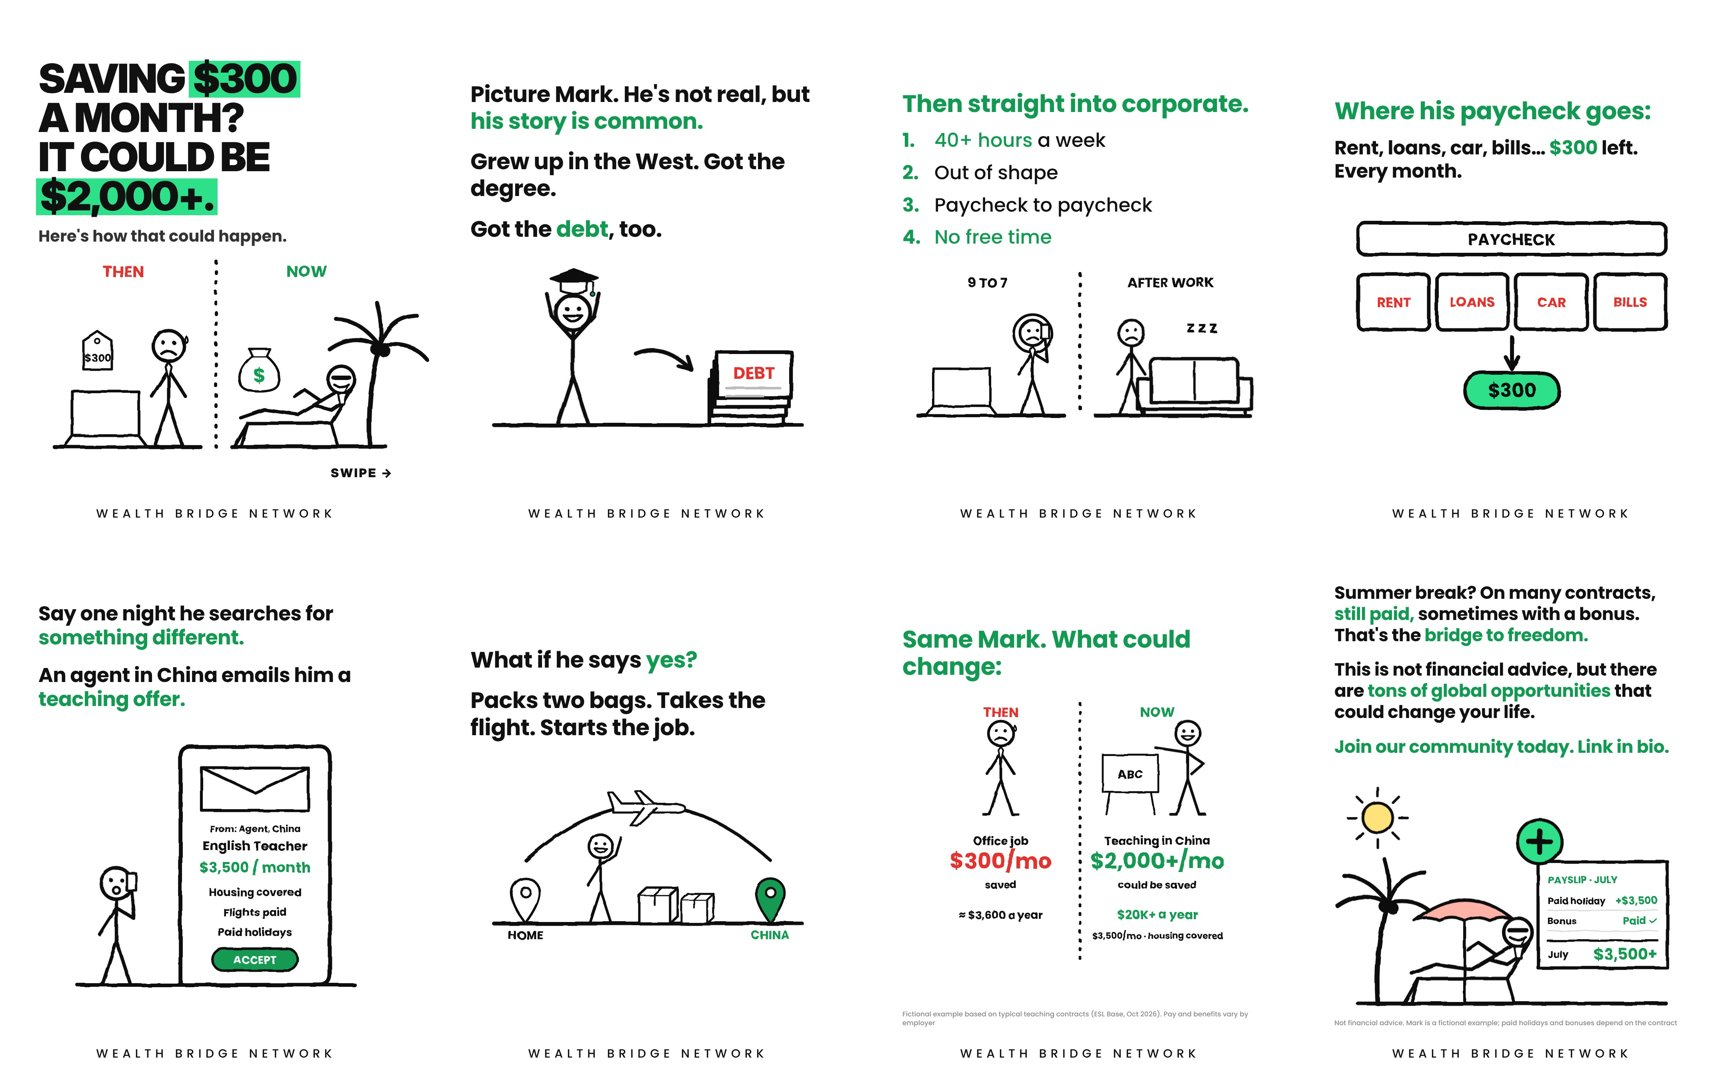
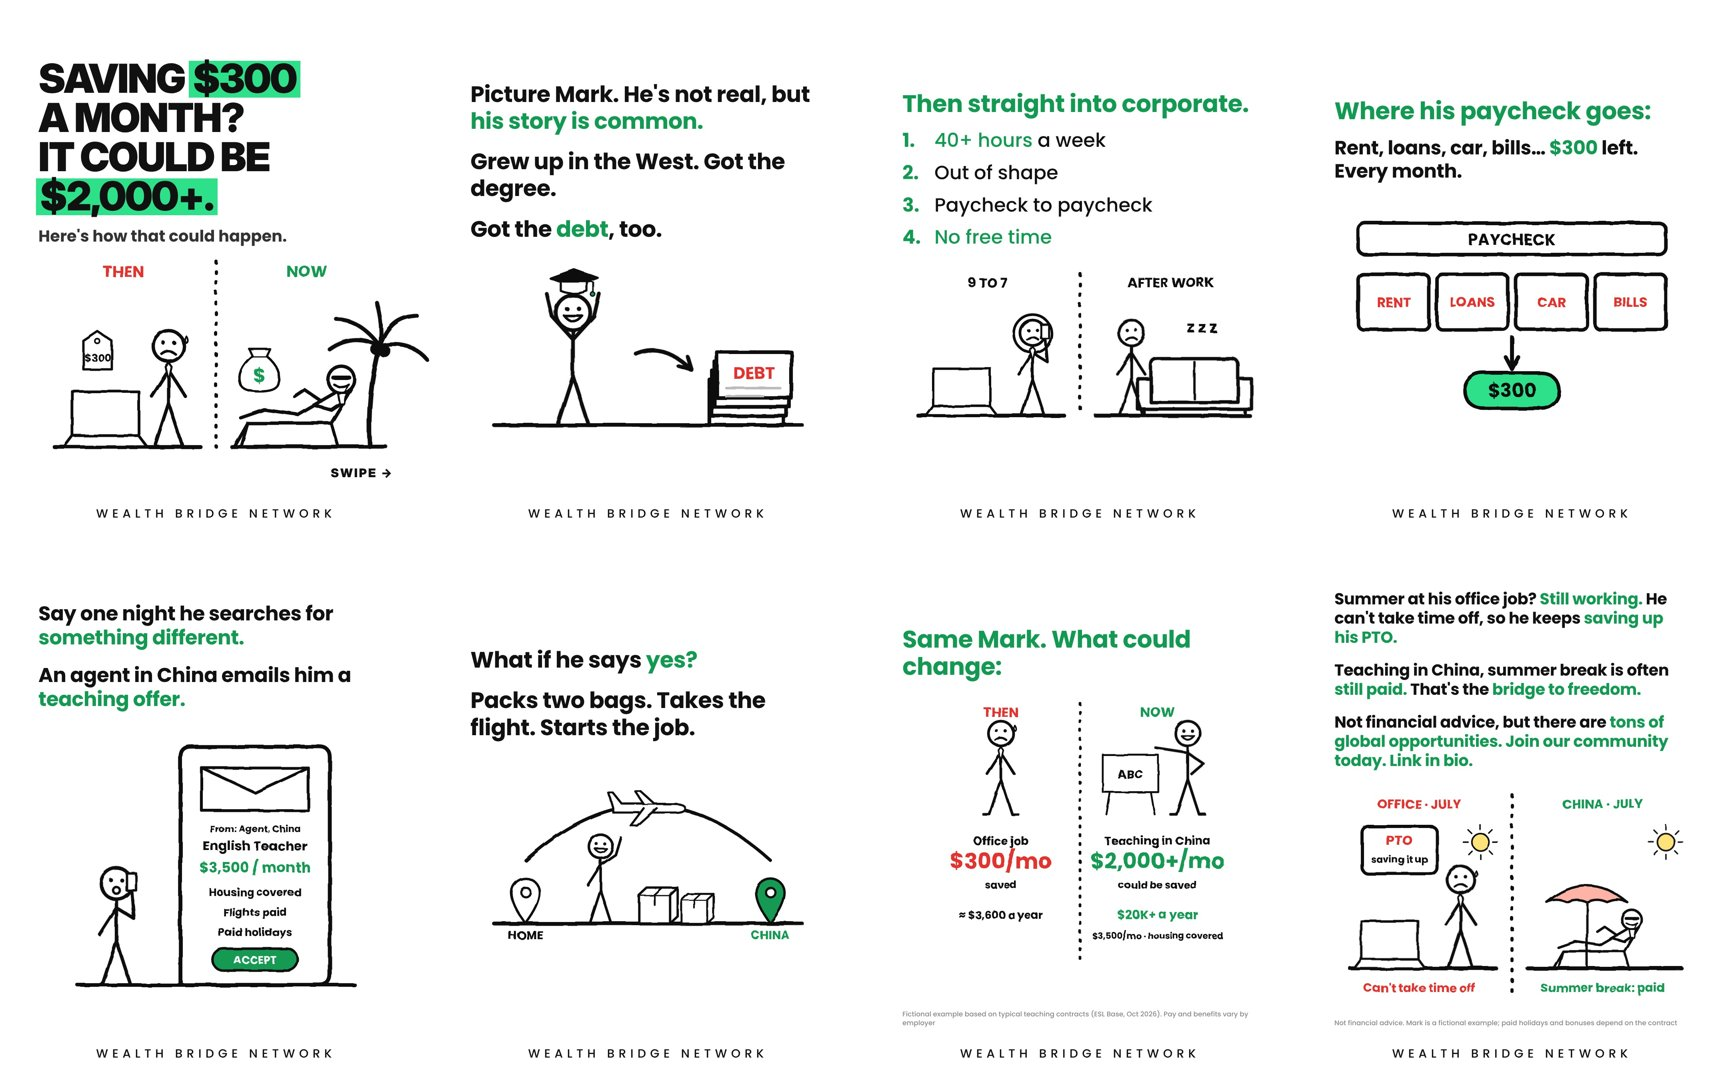
54 Mark: last slide shows office summer (no time off, saving PTO) vs paid summer teaching
Claude-Session: https://claude.ai/code/session_01XWHiAuJ5usg3NqhhkBZ2QK

Changed region(s): [[0.75, 0.5194, 0.9688, 0.9472]]

diff --git a/content/marks_story.py b/content/marks_story.py
@@ -110,7 +110,7 @@ def caption():
     return ("What if you went from saving $300 a month to $2,000+?\n\n"
             "Picture Mark. He's a made-up example, but his situation is common: degree, debt, 40+ hour weeks, paycheck to paycheck, no free time. "
             "Now say he takes an English teaching job in China at $3,500 a month with housing covered. With no rent to pay, he could save $2,000+ a month, "
-            "over $20K a year, and many contracts keep paying through the summer break.\n\n"
+            "over $20K a year. At his office job he'd be working all summer, saving up PTO he can't use. Teaching, many contracts keep paying through the summer break.\n\n"
             "This is the bridge to freedom. There are tons of global opportunities that could change your life. Join our community today: link in bio.\n\n"
             "(Not financial advice. Mark is a fictional example based on typical teaching contracts. Pay and benefits vary by employer.)\n\n"
             f"Follow @wealthbridgenetwork for more China opportunities.\n\n{SIGN}\n\n{TAGS} "
@@ -159,11 +159,16 @@ dict(id="54-marks-story", pillar="Job offers", title="What if you taught in Chin
       + lbl(680, 640, "$20K+ a year", GREEN, 36, 800) + lbl(680, 700, "$3,500/mo · housing covered", INK, 26, 600), vh=760,
       src=NOTE),
  # 8 · SUMMER + CLOSE
- dict(text=["Summer break? On many contracts, *still paid,* sometimes with a bonus. That's the *bridge to freedom.*",
-            "This is not financial advice, but there are *tons of global opportunities* that could change your life.",
-            "*Join our community today. Link in bio.*"], fs=44,
-      scene=ground(60, 840, 560) + sun(110, 90, 0.7) + palm(110, 560, 0.85) + umbrella(330, 560, 0.75) + lounger(330, 560, 0.9)
-      + payslip(680, 470, 0.82, rows=[("Paid holiday", "+$3,500"), ("Bonus", "Paid ✓")], total=("July", "$3,500+")) + plus(520, 150, 0.8), vh=580,
+ dict(text=["Summer at his office job? *Still working.* He can't take time off, so he keeps *saving up his PTO.*",
+            "Teaching in China, summer break is often *still paid.* That's the *bridge to freedom.*",
+            "Not financial advice, but there are *tons of global opportunities.* *Join our community today. Link in bio.*"], fs=40,
+      scene=lbl(215, 34, "OFFICE · JULY", RED, 32) + lbl(680, 34, "CHINA · JULY", GREEN, 32) + divider(450, 0, 520)
+      + f'<rect x="70" y="80" width="190" height="120" rx="16" fill="#fff" stroke="{INK}" stroke-width="8"/>'
+      + _t(165, 128, "PTO", 34, 800, RED) + _t(165, 172, "saving it up", 24, 700)
+      + sun(370, 120, 0.4) + ground(40, 410, 440) + laptop(140, 440, 0.6) + figure(320, 440, 0.75, "down", "sad", tie=True, sweat=True)
+      + lbl(215, 500, "Can't take time off", RED, 30, 700)
+      + sun(840, 120, 0.4) + ground(490, 880, 440) + umbrella(640, 440, 0.6) + lounger(660, 440, 0.62)
+      + lbl(680, 500, "Summer break: paid", GREEN, 30, 700), vh=530,
       src="Not financial advice. Mark is a fictional example; paid holidays and bonuses depend on the contract"),
 ]),
 ]
